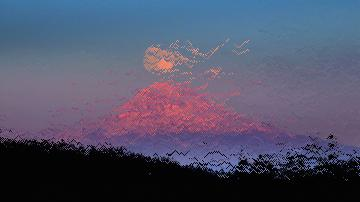
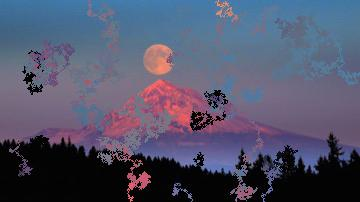
added customizable random walks, finished documentation

diff --git a/pixelpaths.py b/pixelpaths.py
@@ -6,7 +6,6 @@ Each function produces an iterator of 'rows' over a given image, and each 'row' 
 representing pixels.
 However, the paths produced don't have to be necessarily actual rows or columns.
 """
-from math import sqrt
 from random import random
 
 from util import weighted_random_choice
@@ -58,7 +57,8 @@ def diagonal_single_path(size):
     def diagonal_path_iter():
         for offset in xrange(height - 1, -width, -1):
             for x in range(max(0, -offset), min(width, height - offset)):
-                yield (x, x+offset)
+                yield (x, x + offset)
+
     yield diagonal_path_iter()
 
 
@@ -94,6 +94,17 @@ def concentric_rectangle_path(size):
 
 
 def random_walk_path(size, distribution=None, start_points=None):
+    """
+    Performs random walks as a markov chain with an arbitrary distribution and start points
+    :param size: The size of the image as (width, height)
+    :param distribution: A hash of {(dx, dy): probability} the distribution
+    that describes how the random walk moves to neighboring states. This does not need to be normalized to sum to 1.
+    Both dx and dy should be one of [-1, 0, 1].
+     By default, this is a uniform distribution over all adjacent states.
+    :param start_points: A set of starting points for each random walk.
+    By default, these are 10 random points in the image.
+    :return: An iterator of paths, with each path being an iterator of (x,y) pixels
+    """
 
     # TODO allow non-adjacent neighbors also?
 
@@ -119,10 +130,9 @@ def random_walk_path(size, distribution=None, start_points=None):
         if neighbor_sum <= 0:
             raise ValueError("Distribution must be positive, nonzero for adjacent neighbors")
         else:
-            distribution = {n: p/float(neighbor_sum) for n, p in distribution.iteritems()}
+            distribution = {n: p / float(neighbor_sum) for n, p in distribution.iteritems()}
     if start_points is None:
-
-        start_points = [(int(0.5 * width), int(0.5 * height)) for _ in xrange(10)]
+        start_points = [(int(random() * width), int(random() * height)) for _ in xrange(10)]
 
         # # by default, just start at each pixel on the left edge of the image
         # start_points = [(0, y) for y in xrange(height)]
@@ -132,17 +142,28 @@ def random_walk_path(size, distribution=None, start_points=None):
 
 
 def horizontal_random_walk(size):
+    """
+    Generates random walks that start at the left side of the image and move towards the right
+    :param size: The size of the image
+    :return: An iterator of paths, each an iterator of (x,y) coordinates
+    """
     _, height = size
-    distribution = {(1, dy): 1/3.0 for dy in [-1, 0, 1]}
+    distribution = {(1, dy): 1 / 3.0 for dy in [-1, 0, 1]}
     start_points = [(0, y) for y in xrange(height)]
     return random_walk_path(size, distribution, start_points)
 
 
 def vertical_random_walk(size):
+    """
+    Generates random walks that start at the left side of the image and move towards the right
+    :param size: The size of the image
+    :return: An iterator of paths, each an iterator of (x,y) coordinates
+    """
     width, _ = size
-    distribution = {(dx, 1): 1/3.0 for dx in [-1, 0, 1]}
+    distribution = {(dx, 1): 1 / 3.0 for dx in [-1, 0, 1]}
     start_points = [(x, 0) for x in xrange(width)]
     return random_walk_path(size, distribution, start_points)
+
 
 PIXEL_PATH_DICT = {
     'concentric': concentric_rectangle_path,

diff --git a/util.py b/util.py
@@ -29,10 +29,21 @@ def coords_to_index(coords, width):
 
 
 def index_to_coords(index, width):
+    """
+    Converts an index in an array of pixels to an x, y coordinate given an image width.
+    :param index: The index in the array
+    :param width: The width of the image
+    :return: (x,y) coordinate of the pixels specified by `index`
+    """
     return index % width, floor(index / width)
 
 
 def weighted_random_choice(items):
+    """
+    Returns a weighted random choice from a list of items.
+    :param items: A list of tuples (object, weight)
+    :return: A random object, whose likelihood is proportional to its weight.
+    """
     l = list(items)
     r = random() * sum([i[1] for i in l])
     for x, p in l:

diff --git a/pixelkeys.py b/pixelkeys.py
@@ -96,9 +96,9 @@ PIXEL_KEY_DICT = {
     'intensity': intensity,
     'lightness': lightness,
     'luma': luma,
+    'random': randomval,
     'red': red,
     'saturation': saturation,
     'sum': sum,
     'value': max,
-    'random': randomval,
 }

diff --git a/README.md b/README.md
@@ -19,7 +19,8 @@ One can run ` pip install -r requirements.txt` to download any necessary modules
 ## Usage
 
 To run the script, use the command `python pixelsort.py <image> -o <result>` to sort a given image
-and store it in `<result>`. The other settings and options are described below.
+and store it in `<result>`. Use the `--log` flag to view progress for sorting particularly large images.
+The other settings and options are described below.
 For the example figures, the original image used is this:
 
 ![Original Image][original]
@@ -98,6 +99,7 @@ Other sorting methods include:
  - `intensity`
  - `lightness`
  - `luma`
+ - `random`
  - `saturation`
  - `value`
 
@@ -153,10 +155,21 @@ Otherwise, one can explicitly specify what type of path to use with the `-p` or 
 
 ![Sorting with horizontal path][sort100random]
 
- - `random-walk`: Starting on the left, performs a random walk to the right side of the image,
- randomly moving up or down one pixel at a time
+- `random-walk`: This will sort 10 different paths that start randomly
+in the image and randomly move around until they hit an edge. While this is not customizable in the command line,
+one can pass arbitrary distributions and starting positions to this function in the Python code.
 
 ![Sorting with random walk path][sort100-random-walk]
+
+ - `random-walk-horizontal`: Starting on the left, performs a random walk to the right side of the image,
+ randomly moving up or down one pixel at a time
+
+![Sorting with horizontal random walk path][sort100-random-walk-horizontal]
+
+ - `random-walk-vertical`: Starting on the top, performs a random walk to the bottom side of the image,
+ randomly moving left or right one pixel at a time
+
+![Sorting with vertical random walk path][sort100-random-walk-vertical]
 
  - `vertical`: Sorts vertically, column by column
 
@@ -191,7 +204,39 @@ Sorting without the `-e` flag:
 
 ![Sorting without -e][default]
 
-a
+Note that with low `-e` values, nearly the whole image is undisturbed,
+since almost everything is considered an 'edge',
+but with high `-e` values everything is sorted except for the starkly-contrasted trees.
+
+### Tiles
+
+One can also sort individual tiles in the image. With the `--use-tiles` flag,
+the image will be broken into a grid of recantgular tiles, and each tile will be sorted as if it were a separate image.
+By default, tiles are 50 pixels on a size, but this can be changed with the `--tile-x <INT>` and `--tile-y <INT>` flags
+
+Sorting with `--use-tiles` and `-p diagonal`
+
+![Sorting with tiles with default arguments][sort-tiles-default]
+
+Sorting with `--use-tiles --tile-x 20 --tile-y 30` and `-p diagonal`
+
+![Sorting with custom sized tiles][sort-tiles-custom-size]
+
+The `--tile-density <FLOAT>` flag will only sort the given fraction of tiles. For instance, with `--tile-density 0.5`,
+only half of the tiles will be sorted, while the others are unmodified. By default, all tiles are sorted.
+Also, if the density is less than 1, tiles are sorted uniformly across the image.
+If the `--randomize-tiles` flag is specified, then tiles will be randomly sorted,
+with the probability given by `--tile-density <FLOAT>`.
+
+Sorting with `--use-tiles --tile-x 20 --tile-y 20 --tile-density 0.5` and `-p diagonal-single`
+
+![Sorting with tiles and density 0.5][sort-tiles-half]
+
+Sorting with `--use-tiles --tile-x 20 --tile-y 20 --tile-density 0.5 --randomize-tiles` and `-p diagonal-single`
+
+![Sorting with custom sized tiles][sort-tiles-half-random]
+
+
 
 [//]: # "Figures"
 [original]: docs/figures/original.jpg
@@ -211,7 +256,13 @@ a
 [sort100-diagonal]: docs/figures/sort-100-diagonal.jpg
 [sort-diagonal-single]: docs/figures/sort-diagonal-single.jpg
 [sort100-random-walk]: docs/figures/sort-100-random-walk.jpg
+[sort100-random-walk-horizontal]: docs/figures/sort-100-random-walk-horizontal.jpg
+[sort100-random-walk-vertical]: docs/figures/sort-100-random-walk-vertical.jpg
 [sort100-vertical]: docs/figures/sort-100-vertical.jpg
 [sort-edge-detect-50]: docs/figures/sort-edge-detect-50.jpg
 [sort-edge-detect-100]: docs/figures/sort-edge-detect-100.jpg
 [sort-edge-detect-200]: docs/figures/sort-edge-detect-200.jpg
+[sort-tiles-default]: docs/figures/sort-tiles-default.jpg
+[sort-tiles-custom-size]: docs/figures/sort-tiles-custom-size.jpg
+[sort-tiles-half]: docs/figures/sort-tiles-half.jpg
+[sort-tiles-half-random]: docs/figures/sort-tiles-half-random.jpg
